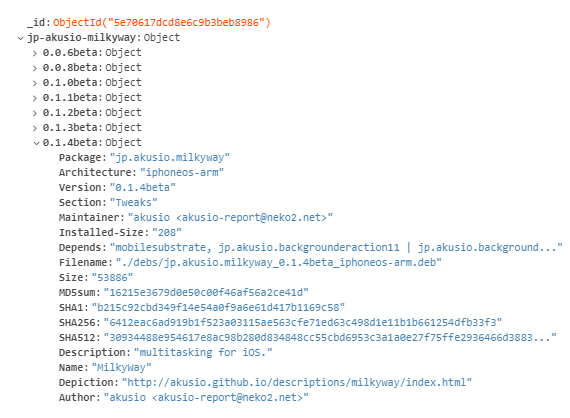
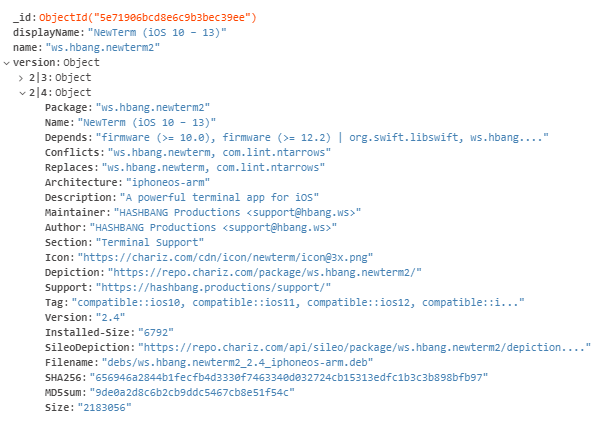
v2.0.2

Changed region(s): [[0.0, 0.0311, 0.9842, 0.9952]]

diff --git a/src/parse.js b/src/parse.js
@@ -17,14 +17,14 @@ const parse = async () => {
             continue;
         }
 
+        // remove duplicate lines and split each into package into its own chunk
         const data = [...new Set(readFileSync(join(__dirname, '../temp/', file))
             .toString()
             .trim()
-            .split(/\n\n/g))];
+            .split(/\n\n|\r\n\r\n/g) // thanks Akusio
+        )];
         
-        /**
-         * Array of packages split by line
-         */
+        /** Array of packages split by line */
         const packages = data.map(e => e.split(/\n/g));
 
         const pkg = {};
@@ -43,28 +43,31 @@ const parse = async () => {
             }
 
             // if the property does not exist, create it
-            if(!(o.Package in pkg)) {
-                Object.defineProperty(pkg, o.Package, { value: {}, enumerable: true });
+            if(!(o.Package.trim() in pkg)) {
+                Object.defineProperty(pkg, o.Package.trim(), { value: {}, enumerable: true });
             }
 
             // this is Eclipse iOS 11's fault.
-            if(o.Package in pkg && !(o.Version in pkg[o.Package])) {
-                Object.defineProperty(pkg[o.Package], o.Version, { value: o, enumerable: true });
+            if(o.Package.trim() in pkg && !(o.Version.trim() in pkg[o.Package.trim()])) {
+                Object.defineProperty(pkg[o.Package.trim()], o.Version.trim(), { 
+                    value: o, 
+                    enumerable: true 
+                });
             }
         }
 
-        for(const [k, v] of Object.entries(pkg)) {
-            const key = k.replace(/\./g, '-');
-            const r = await db.updateOne(
-                { [`${key}`]: { $exists: true } }, 
-                { $set: { [`${key}`]: v } }, 
-                { upsert: true }
-            );
+        for(const v of Object.values(pkg)) {
+            for(const version of Object.values(v)) {
+                const r = await db.updateOne(
+                    { name: `${version.Package}`, displayName: `${version.Name}`},
+                    { $set: { [`version.${version.Version.replace(/\./g, '|')}`]: version } },
+                    { upsert: true }
+                );
             
-
-            if(r.result.ok !== 1) {
-                console.log(k, v);
-                process.exit();
+                if(r.result.ok !== 1) {
+                    console.log('An error occured on this package:', k, v);
+                    process.exit();
+                }
             }
         }
     }

diff --git a/src/download.js b/src/download.js
@@ -48,8 +48,7 @@ const downloadList = async () => {
                             );
                             return resolve();
                         } catch(err) {
-                            console.log(err.message);
-                            return reject();
+                            return reject(err);
                         }
                     });
                 });
@@ -64,9 +63,15 @@ const downloadList = async () => {
                             buf.join('\n').trim()
                         )));
                 });
+            } else if(repo.endsWith('Packages')) {
+                // thanks https://repo.conorthedev.me
+                writeFileSync(
+                    join(__dirname, `../temp/decoded-${new URL(repo).host}.txt`), 
+                    (await res.text()).trim()
+                );
             }
         } catch(err) {
-            console.error('An error occured parsing %s.\n"%s"', repo, err.message);
+            console.error('An error occured parsing %s.\n', repo, err.message);
         }
     }
 

diff --git a/README.md b/README.md
@@ -1,12 +1,31 @@
 # CyRepo
  Don't look at old commits unless you're having a bad day.
 
-# Note
-* Packages are stored by their bundle ID as such:
+# Notes
+1. Packages in the database are stored by their bundleID ("name") and by their display name ("displayName"). There is a key titled version which will store each version of a package. **Note: periods in versions are replaced by | because of Mongo's weird dot notation.**
+```json
+{
+    "name": "package.bundle.id",
+    "displayName": "BundleID (iOS 2)",
+    "version": {
+        "1|0|0": { ... },
+        "1|0|1": { ... }
+    }
+}
+```
+2. Ever since the new /r/jb bot, people are no longer searching for the exact name of packages ("Eclipse (iOS 13)" can be simplified to "Eclipse"). MongoDB provides no *real* solution to this, but a like query can be made using something along the lines of: 
+```js
+const results = await <Collection>.find({
+    $or: [
+        { name: /quanta/i }, // IE: ws.hbang.quanta
+        { displayName: /quanta/i } // IE: Quanta (iOS 13)
+    ]
+}).toArray();
+```
+3. Average run times for me are well over a minute (~100 seconds): it has to download and decompress MBs of files, parse hundreds of thousands of lines of text, and then insert just about every line into a database. 
+4. Please don't spam repos with requests. I recommend leaving an hour between runs.
 
 ![](./assets/db.png)
-
-* It's surprisingly quick! Around a minute with the current repos added, results may vary.
 
 # How to use
 Look at [start.js](./start.js) for example usage.
@@ -18,6 +37,6 @@ If you want to update packages frequently, use setInterval.
 * Seek-bzip for decoding bunzip files.
 
 # Adding Repos
-1. Get the URL of the Packages.bz2 or Packages.gz file (support for other methods coming when needed).
+1. Get the URL of the Packages.bz2, Packages.gz, or Packages file (support for other methods coming when needed). Uncompressed data will be slowest; try avoiding it if there is an alternative!
 2. Add into [repos.txt](./repos.txt).
 3. Run.

diff --git a/CHANGELOG.md b/CHANGELOG.md
@@ -5,6 +5,12 @@
 * Complete re-write: faster, more accurate, fixed all known issues and flaws.
 * Rewritten for use in a Discord/Reddit/Telegram bot.
 
-# v1.0.1
+# v2.0.1
 * GZip (.gz) support.
 * Added more repos.
+
+# v2.0.2
+* [Support for \r if it appears](https://stackoverflow.com/a/1761086)
+* Change database structure to be more practical.
+* Support for uncompressed data.
+* Added example usage of querying data.
